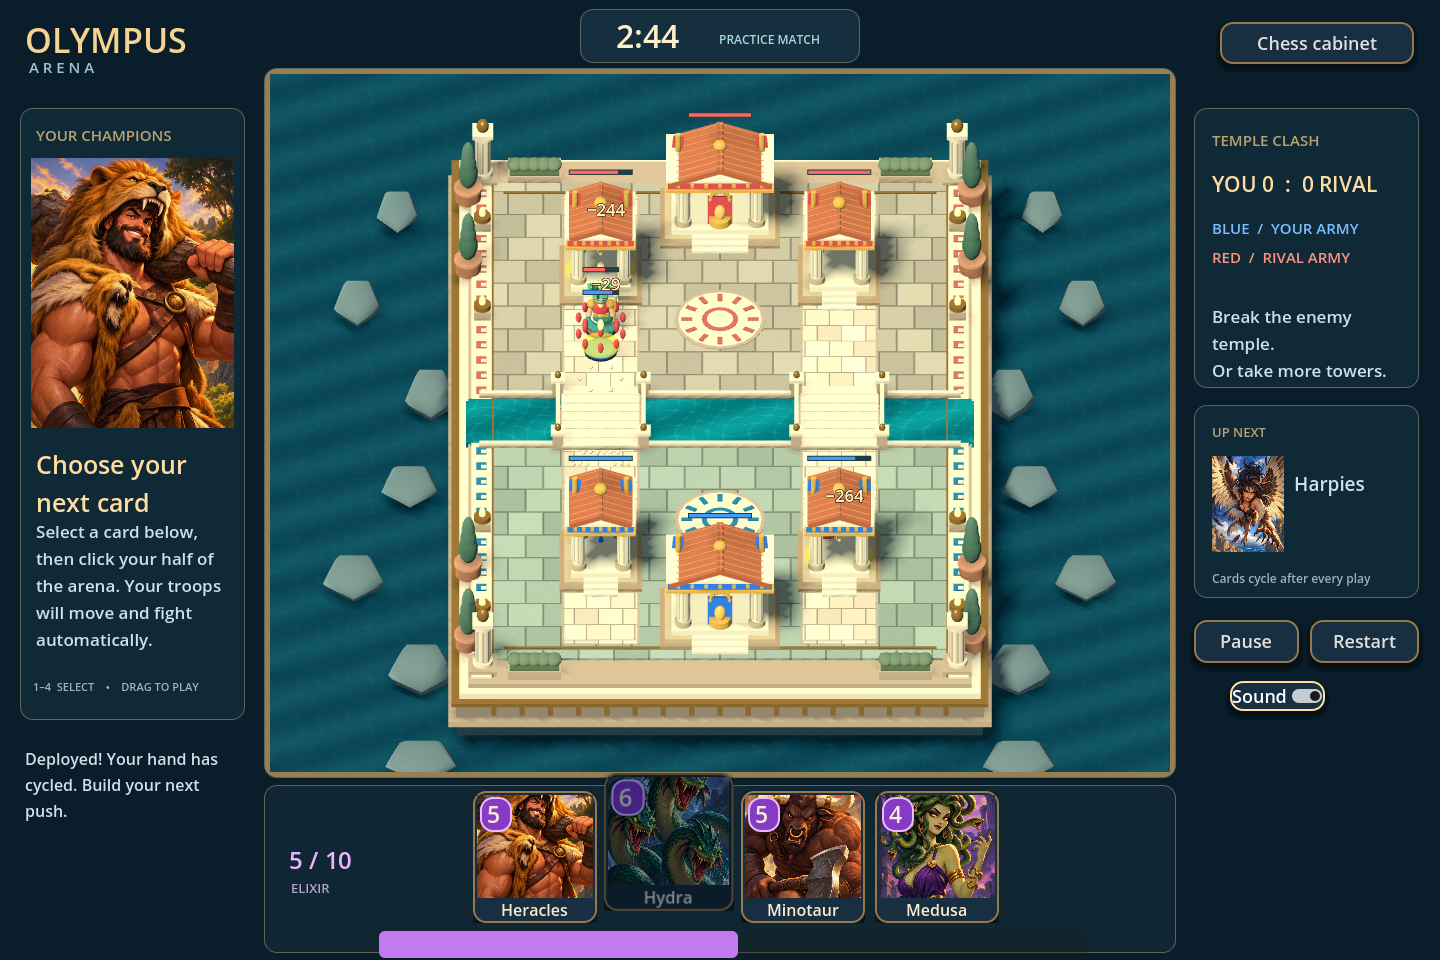
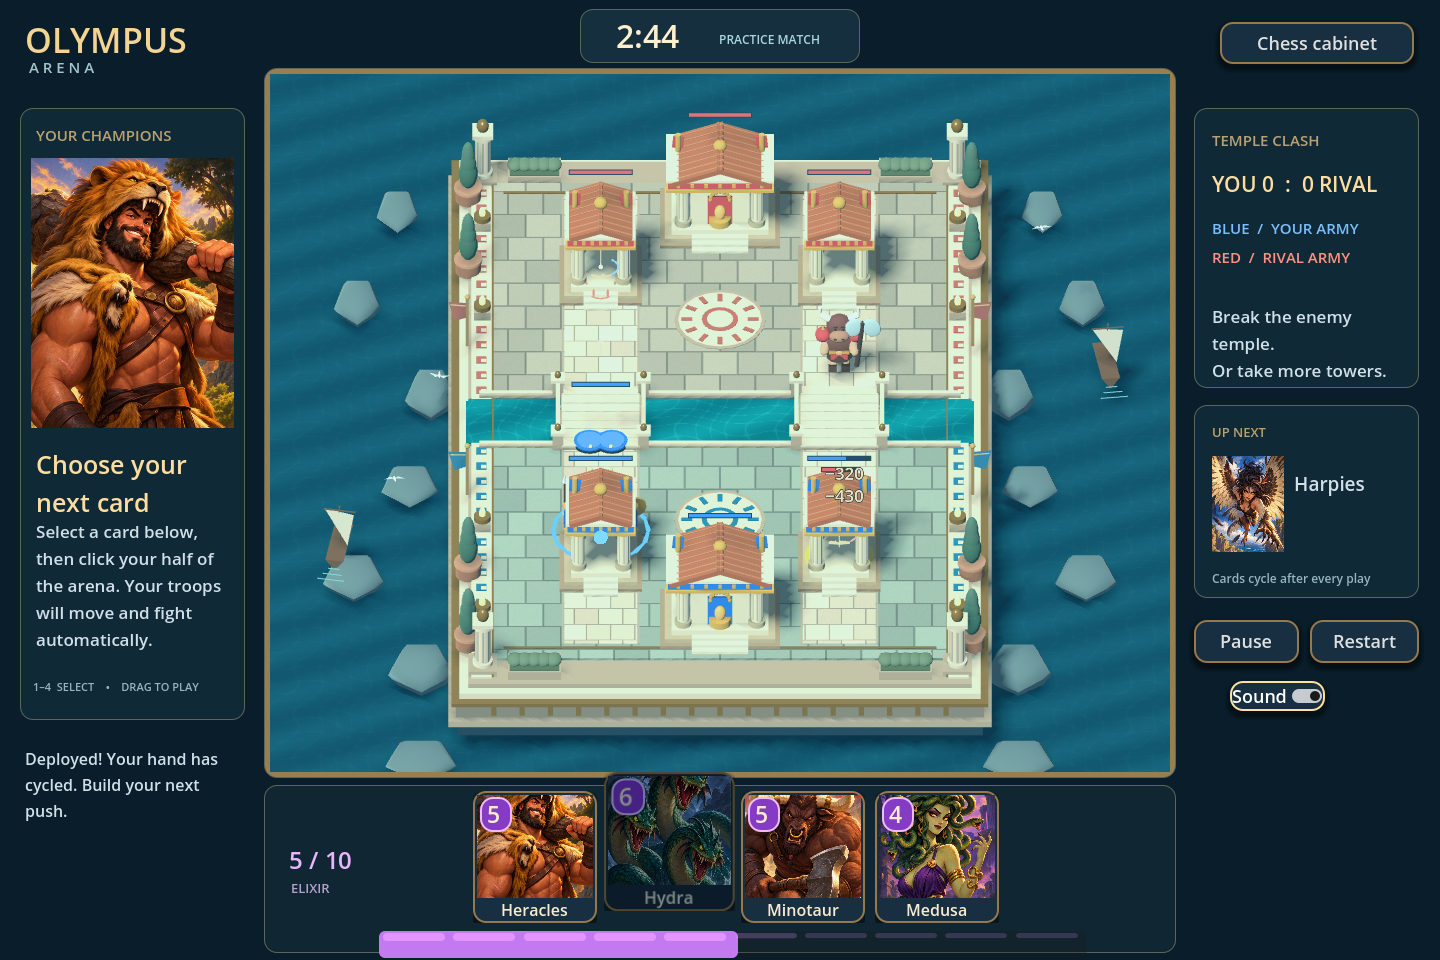
Refresh Olympus production handoff and verified presentation evidence

diff --git a/docs/HANDOFF.md b/docs/HANDOFF.md
@@ -12,7 +12,7 @@ Use original Greek characters and presentation assets. Preserve the existing woo
 
 ## Current polish pass (2026-09-05)
 
-The user explicitly requested a much more attractive, modern presentation. Implemented: eight illustrated card portraits, a larger coastal 3D arena with carved paving and animated water, layered Greek shrines, seven richer procedural figurines, jointed walking/wing/cape/neck animation, visual movement smoothing, placement ghosts, floating damage and defeat dust, animated card selection, next-card art, and original synthesized combat sounds. Art prompt and provenance are in `assets/olympus_arena/ART-PROVENANCE.md`.
+The user explicitly requested a much more attractive, modern presentation. Implemented: eight illustrated card portraits, a larger coastal 3D arena with carved paving and animated water, boats, gulls, pennants and embers, layered Greek shrines, seven richer procedural figurines, jointed walking/attack/wing/cape/neck animation, visual movement smoothing, placement ghosts, tactile card dragging, unit-specific attack effects, tower debris and smoke, reactive HUD alerts, a cinematic countdown, tactical practice opponent, deterministic crowd separation, and original synthesized combat sounds plus a quiet lyre-and-frame-drum score. Art prompt and provenance are in `assets/olympus_arena/ART-PROVENANCE.md` and `art-manifest.json`.
 
 This is a stronger playable art prototype, not finished commercial character production. The next largest visual gain is authored, rigged low-poly characters matching the card portraits, with distinct attack anticipation, contact and recovery. Current meshes are assembled from primitives. Deterministic soft crowd separation respects banks and bridges, but it is not a full physics or steering system. Do not call this equivalent to a shipped Clash Royale presentation.
 
@@ -20,24 +20,25 @@ The visual authority remains the pure session. Replica roots equal authoritative
 
 New boundaries: `presentation/olympus_stage.gd` and two shaders own scenery; `presentation/olympus_ambient_life.gd` owns boats, birds, pennants and embers; `presentation/olympus_figurines.gd` owns miniature geometry and joint animation; `presentation/olympus_combat_fx.gd` and `olympus_hud_fx.gd` consume authoritative events; `presentation/olympus_audio.gd` owns synthesized sounds and music. `tools/capture_olympus_motion.gd` records native frames from legal play at a fixed simulation cadence. See [the art production contract](OLYMPUS_ART_PIPELINE.md) before replacing procedural characters. Do not use a staged screenshot as evidence of match balance or performance.
 
-Near-term parallel polish slices (roughly 10 minutes each):
+The previous short slices for crowd separation, combat effects, ambient arena life, tactical bot behavior, countdown, music and HUD reactions are complete. The next parallel polish slices are:
 
 | Wave | Owner/files | Output | Dependencies and validation |
 | --- | --- | --- | --- |
-| 1 | Character artist: new `assets/olympus_arena/models/hoplite/` | One authored hoplite with idle/walk/attack clips and material IDs | Match card silhouette; preview at current gameplay camera; no renderer edits |
-| 1 | UI artist: new portrait framing Resource | Consistent cost, rarity-free frame and focus treatment | Existing eight atlas regions; inspect readable names/costs at 1000x700 |
-| 1 | Audio: `olympus_audio.gd` | Refine impact timbre and mixing from captured battles | Preserve dedup/mute and bounded voices; run 24 audio checks and listen |
-| 2 | Renderer: `olympus_arena_board.gd` | Load one authored model with procedural fallback | Depends on approved hoplite; authoritative root and health tests pass |
-| 2 | FX: new effect helper module | Tower destruction debris and shock ring from HP transitions | No overlapping renderer edits; test once-per-destruction and rematch cleanup |
-| 2 | Rules: `games/olympus_arena/` | Design and test simple unit separation before implementation | Separate rules review; no visual-only collision fix; deterministic repeat runs |
-| 3 | Coordinator: app, exports, docs | Integrate, capture motion, package new build | Native UI/board, pure rules, audio and chess regressions; inspect actual exported executable |
+| 1 | Character artist: `work/art-source/olympus/hoplite/`, then `assets/olympus_arena/models/hoplite/` | Authored hoplite with all required clips and material IDs | Follow `OLYMPUS_ART_PIPELINE.md`; review alone, in a trio, and against both team accents |
+| 1 | Technical artist: new `presentation/olympus_model_loader.gd` | GLB loader with clip validation and procedural fallback | Use a deliberately missing fixture first; no renderer edit until fallback tests pass |
+| 1 | Performance owner: new profiling scene/report | 8-, 16- and 32-unit native GPU/CPU measurements with effects | Use current game camera and active water/ambient life; record hardware and frame percentiles |
+| 1 | UX owner: app tests and a review note | Keyboard, mouse, drag and 1000 x 700 readability audit | Substantiate issues before app edits; verify countdown and invalid-placement recovery |
+| 2 | Character artists: separate folders for Atalanta, Minotaur and Medusa | Three approved models, one owner per folder | Starts only after hoplite pipeline admission; shared skeleton changes have one owner |
+| 2 | Creature artists: separate folders for Heracles, Hydra and Harpies | Three approved models with creature-specific clips | Hydra must preserve three-head separation; Harpies must remain distinct as a pair |
+| 2 | Renderer owner: `olympus_arena_board.gd` | Admit approved models one at a time with procedural fallback | No batch integration; run authoritative-root, event, cleanup and crowd captures after each |
+| 3 | Coordinator: app, exports, docs | Mix review, complete-match capture, regression, Windows build and release | Requires 760 rules checks plus all native presentation suites and exported executable smoke test |
 
 ## Repository status
 
 | Component | Status and evidence boundary |
 | --- | --- |
 | Wooden chess | Existing playable game: pure chess rules, wooden 3D board and chips, mouse/keyboard controls, history, undo, save/load, practice opponent, factual tutor context, and PGN export. Preserve its tests. |
-| Olympus Arena | Playable polished prototype: illustrated roster, coastal arena life, animated attacks, deployment ghosts, combat/HUD effects, crowd separation, tactical local opponent and layered audio. Current rules evidence: 760 checks; final native and export counts must be refreshed after integration. Release manifest identifies packaged source. |
+| Olympus Arena | Playable polished prototype: illustrated roster, coastal arena life, animated attacks, deployment ghosts, combat/HUD effects, crowd separation, tactical local opponent and layered audio. Current evidence: 760 rules, 33 native renderer, 45 native app (47 with captures), 21 combat-FX, 9 HUD-FX and 48 audio checks. Full chess and parked Ninth Gate regressions pass. Refresh the export manifest for every new package. |
 | The Ninth Gate | Parked historical prototype with rules, 3D source work, and an older 2D prerelease. Its setting and play loop are not the current direction. |
 | Go / Xiangqi / checkers | Previously selected future games; not implemented and not active parallel work. |
 

diff --git a/README.md b/README.md
@@ -1,6 +1,6 @@
 # Board Game Cabinet
 
-**The app now opens Olympus Arena:** a playable real-time Greek arena battler with an eight-card deck, four-card hand, regenerating elixir, two bridges, two defensive towers and a central temple per side, automatic troop combat, and a local computer opponent. Troops, spells, card icons, and the 3D arena are original project assets. The core match structure follows the user's requested Clash Royale reference.
+**The app now opens Olympus Arena:** a playable real-time Greek arena battler with an eight-card deck, four-card hand, regenerating elixir, two bridges, two defensive towers and a central temple per side, automatic troop combat, and a tactical local computer opponent. The current polish pass adds an illustrated roster, animated coastal arena, soft crowd separation, character-specific combat effects, tower destruction, tactile card dragging, reactive match HUD, countdown, and an original synthesized lyre-and-frame-drum score. Troops, spells, cards, audio, effects, and the 3D arena are original project assets. The core match structure follows the user's requested Clash Royale reference.
 
 Press **BATTLE**, select a card with a click or keys **1–4**, then click your half of the arena. Cards can also be dragged onto the arena. **Thunderbolt** targets either side. **Space** pauses/resumes the local match; **Escape** deselects a card. Destroy the rival temple to win immediately, or win on towers at the clock. The final minute doubles elixir regeneration. A tied three-minute match enters up to one minute of sudden-death overtime.
 

diff --git a/docs/OLYMPUS_ARENA.md b/docs/OLYMPUS_ARENA.md
@@ -85,7 +85,7 @@ The next useful tests target reproducible combat interactions, legal placement a
 
 ## Verification checkpoint
 
-The current arena rules suite has **760 passing checks**. Native coverage includes the renderer, full application, combat-effects director, HUD-effects director, audio lifecycle, card dragging, countdown, legal deployment, invalid-action atomicity, pause/resume, restart/rematch, outcomes, deterministic crowd spacing, tactical bot fixtures, and a complete battle. These are automated acceptance checks, not a claim of competitive balance or extensive novice playtesting.
+The current arena rules suite has **760 passing checks**. The renderer has 33 native checks; the full application has 45, or 47 when it writes both captures; the combat-effects director has 21; the HUD-effects director has 9; and synthesized audio/music has 48. Coverage includes card dragging, countdown, legal deployment, invalid-action atomicity, pause/resume, restart/rematch, outcomes, deterministic crowd spacing, tactical bot fixtures, event deduplication, effect caps, audio cleanup, and a complete battle. The full chess and parked Ninth Gate regressions also pass. These are automated acceptance checks, not a claim of competitive balance or extensive novice playtesting.
 
 Native gameplay and result captures are produced and visually inspected. Gameplay is readable with original 3D procedural models; the character models are still a foundation for an authored art pass. Save/replay, network play, progression, deck editing, and finished character meshes remain absent.
 
